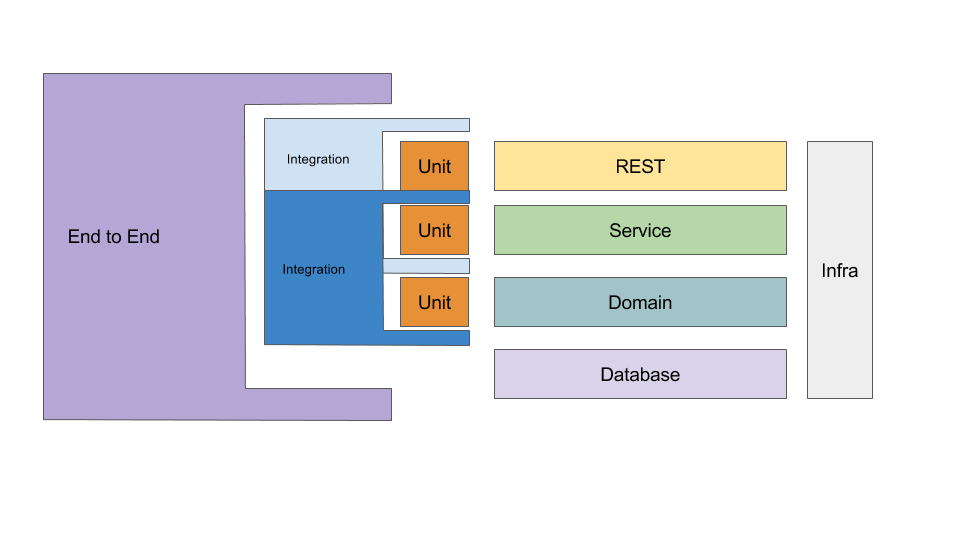
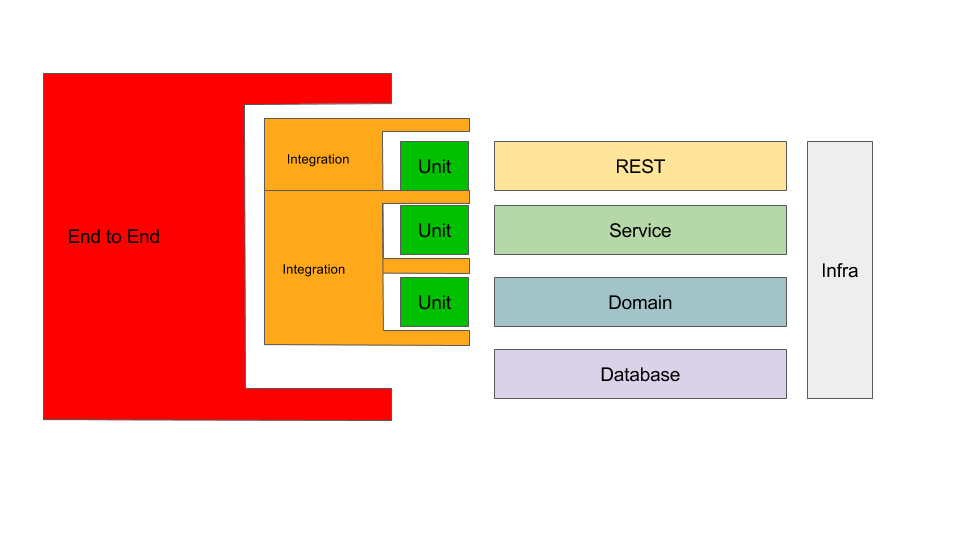
test niveaus toegevoegd

Changed region(s): [[0.0312, 0.1185, 0.5, 0.8]]

diff --git a/slides/index.html b/slides/index.html
@@ -4,7 +4,7 @@
 		<meta charset="utf-8">
 		<meta name="viewport" content="width=device-width, initial-scale=1.0, maximum-scale=1.0, user-scalable=no">
 
-		<title>Clean Code - Prato NV</title>
+		<title>TDD</title>
 
 		<link rel="stylesheet" href="css/reveal.css">
 		<link rel="stylesheet" href="css/theme/black.css">
@@ -114,25 +114,21 @@
 				<section>
 					<section>
 						<h4>Soorten testen</h4>
+						<img src="img/testniveaus.png"/>
 						<p>&nbsp;</p>
-						<div style="padding-left: 300px;">
-							<div style="width: 100px; background-color: red; margin-left: 125px;">E2E</div>
-							<div style="width: 250px; background-color: orange; margin-left: 50px;">Integration</div>
-							<div style="width: 350px; background-color: green">Unit</div>
-						</div>
 					</section>
 					<section>
-						<h4 style="background-color: green">unit testing</h4>
+						<h4 style="background-color: green">Unit Testing</h4>
 						<ul>
 						<li>Onafhankelijk van externen (db, webservice, ...)</li>
 						<li>Snel!</li>
 						<li>Véél testen</li>
-						<li>Test normaal pad &amp; limieten</li>
-						<li>"actieve vijand van de code"</li>
+						<li>Test Happy Path &amp; Edge Cases</li>
+						<li>"Actieve vijand van de code"</li>
 						</ul>
 					</section>
 					<section>
-						<h4 style="background-color: orange">integration testing</h4>
+						<h4 style="background-color: orange">Integration Testing</h4>
 						<ul>
 						<li>Test geïntegreerd met externen (db, webservice, ...)</li>
 						<li>Test integratie <strong>twee verschillende lagen</strong></li>
@@ -141,7 +137,7 @@
 						</ul>
 					</section>
 					<section>
-						<h4 style="background-color: red">end to end testing</h4>
+						<h4 style="background-color: red">End to End Testing</h4>
 						<ul>
 						<li>Test hele applicatie!</li>
 						<li>niet alle limieten</li>
@@ -151,8 +147,6 @@
 					</section>
 
 				</section>
-
-
 
 			</div>
 		</div>
